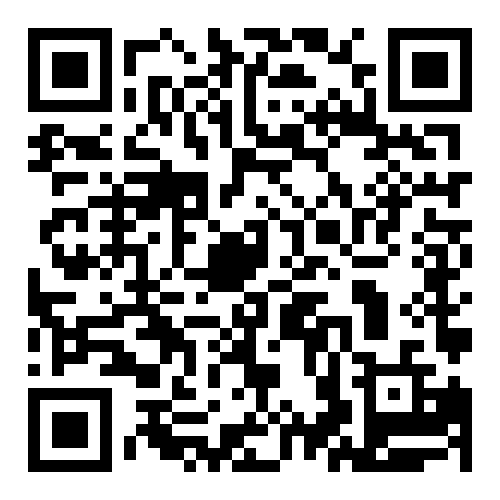
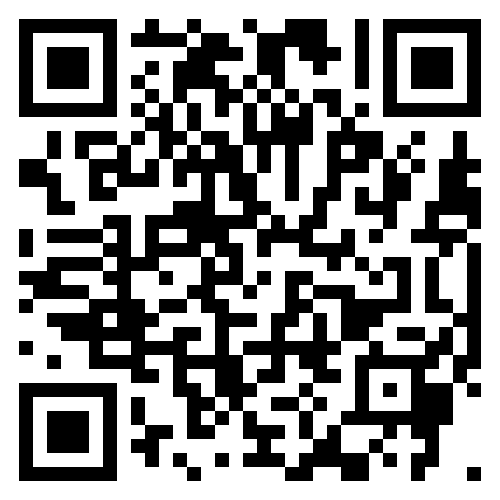
added support for MK and Sandown Park

diff --git a/review.html b/review.html
@@ -2,11 +2,12 @@
 <img src="Images/logo.png">
 
 <br /><br />
-<h1>Leave us a Review!</h1>
-<img src="Images/trip-advisor.png">
+<h1 id="reviewText">Leave us a Review!</h1>
+<img id="reviewImage" src="Images/trip-advisor.png">
 <br /><br />
 <img src="Images/Tripadvisor-Logo.png" width="384" height="240">
 
+<p><a href="#" onclick="changeReview('Tamworth'); return false;">Tamworth</a> | <a href="#" onclick="changeReview('MK'); return false;">Milton Keynes</a> | <a href="#" onclick="changeReview('Sandown'); return false;">Sandown Park</a></p>
 
 </center>
 <meta name="viewport"
@@ -14,3 +15,23 @@
 
 
 <link rel="stylesheet" href="style.css"> 
+<script>
+      function changeReview(venue){
+            if(venue=="Tamworth"){
+                  document.getElementById('reviewText').innerHTML = 'Leave a review of Daytona Tamworth!';
+                  document.getElementById('reviewImage').src = 'Images/trip-advisor-tam.png';
+                  return;
+            }
+            else if (venue=="MK"){
+                  document.getElementById('reviewText').innerHTML = 'Leave a review of Daytona Milton Keynes!';
+                  document.getElementById('reviewImage').src = 'Images/trip-advisor-mk.png';
+                  return;
+            }
+            else if (venue=="Sandown"){
+                  document.getElementById('reviewText').innerHTML = 'Leave a review of Daytona Sandown Park!';
+                  document.getElementById('reviewImage').src = 'Images/trip-advisor-sp.png';
+                  return;
+            }
+      }
+
+</script>

diff --git a/style.css b/style.css
@@ -20,6 +20,11 @@ button {
     background-color: red;
 }
 
+a{
+    color: white;
+    font-family: Arial, Helvetica, sans-serif;
+}
+
 img{
     width: 25%;
     height: auto;
